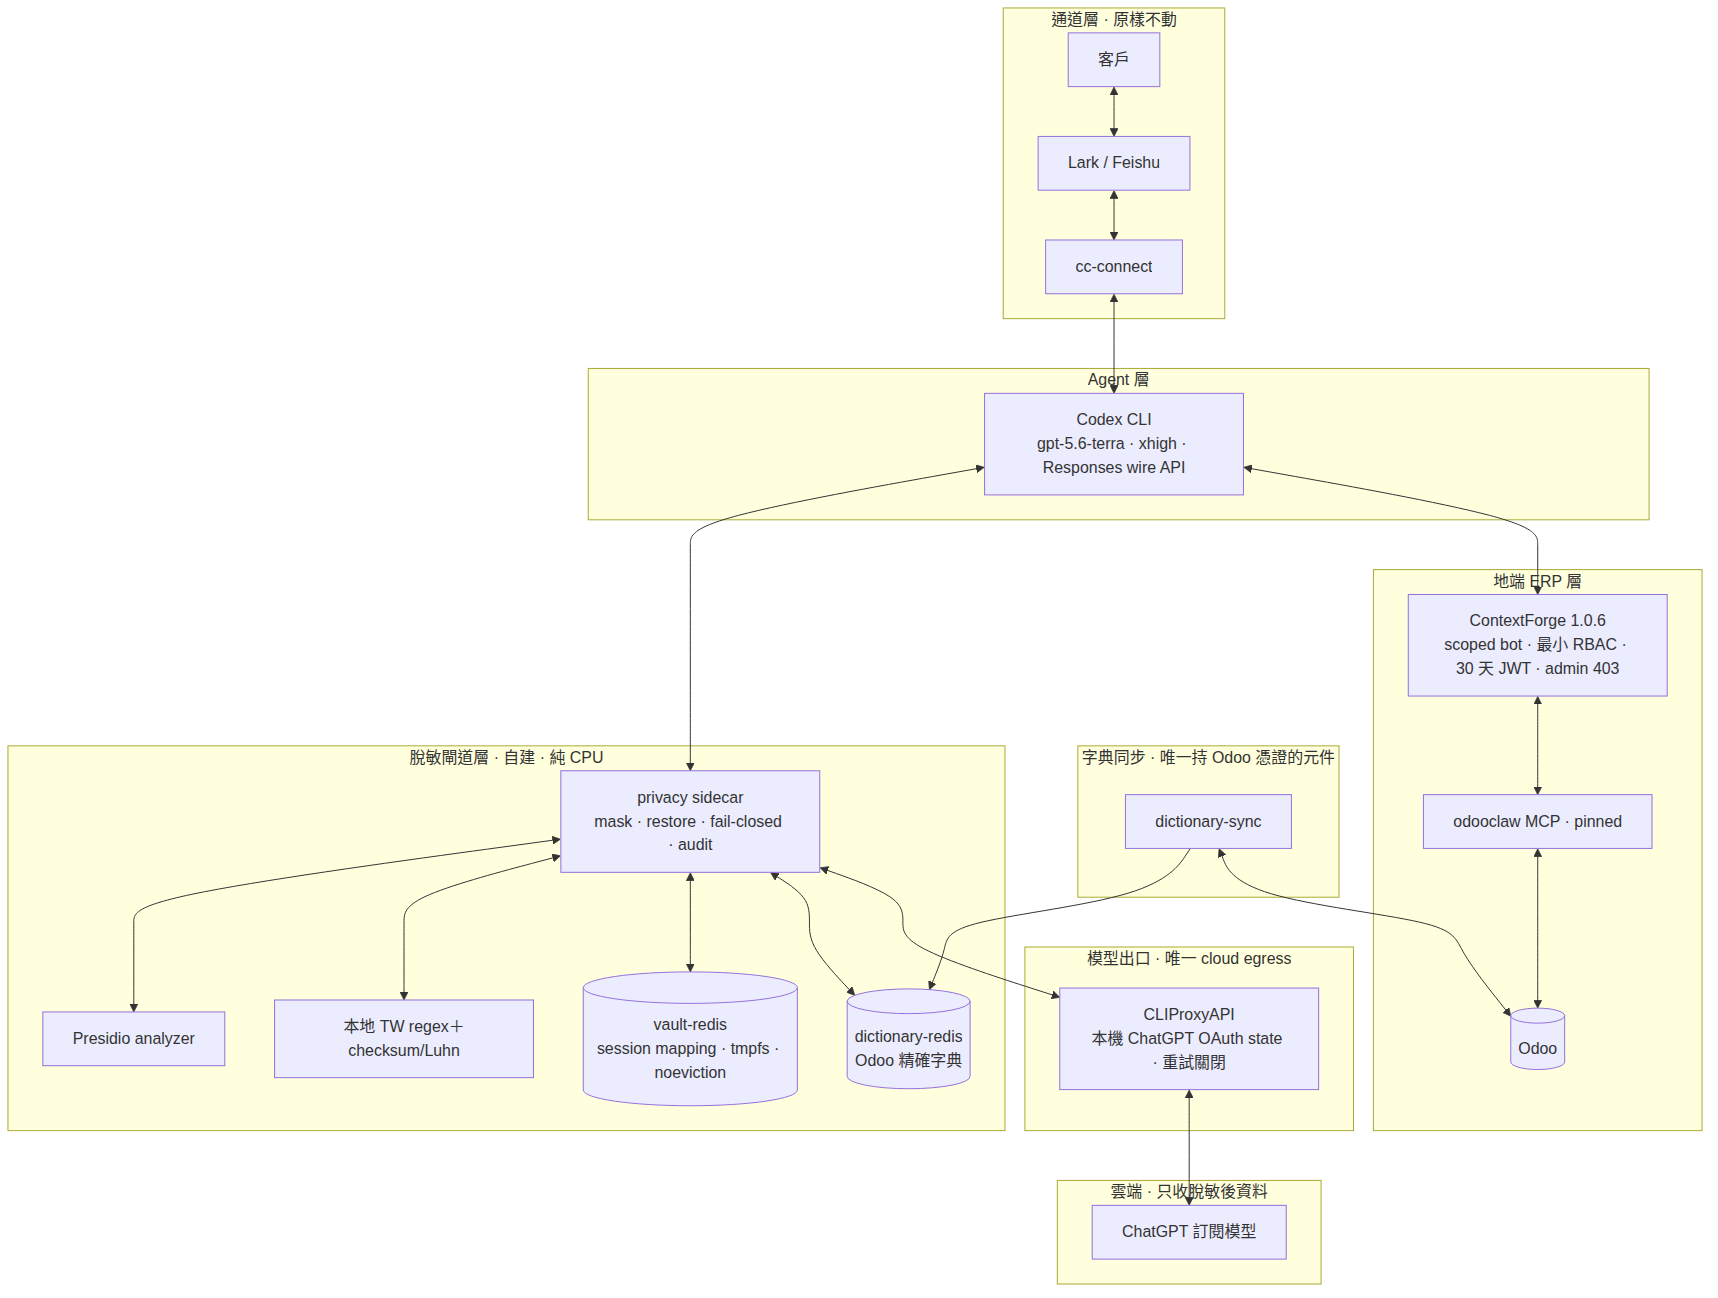
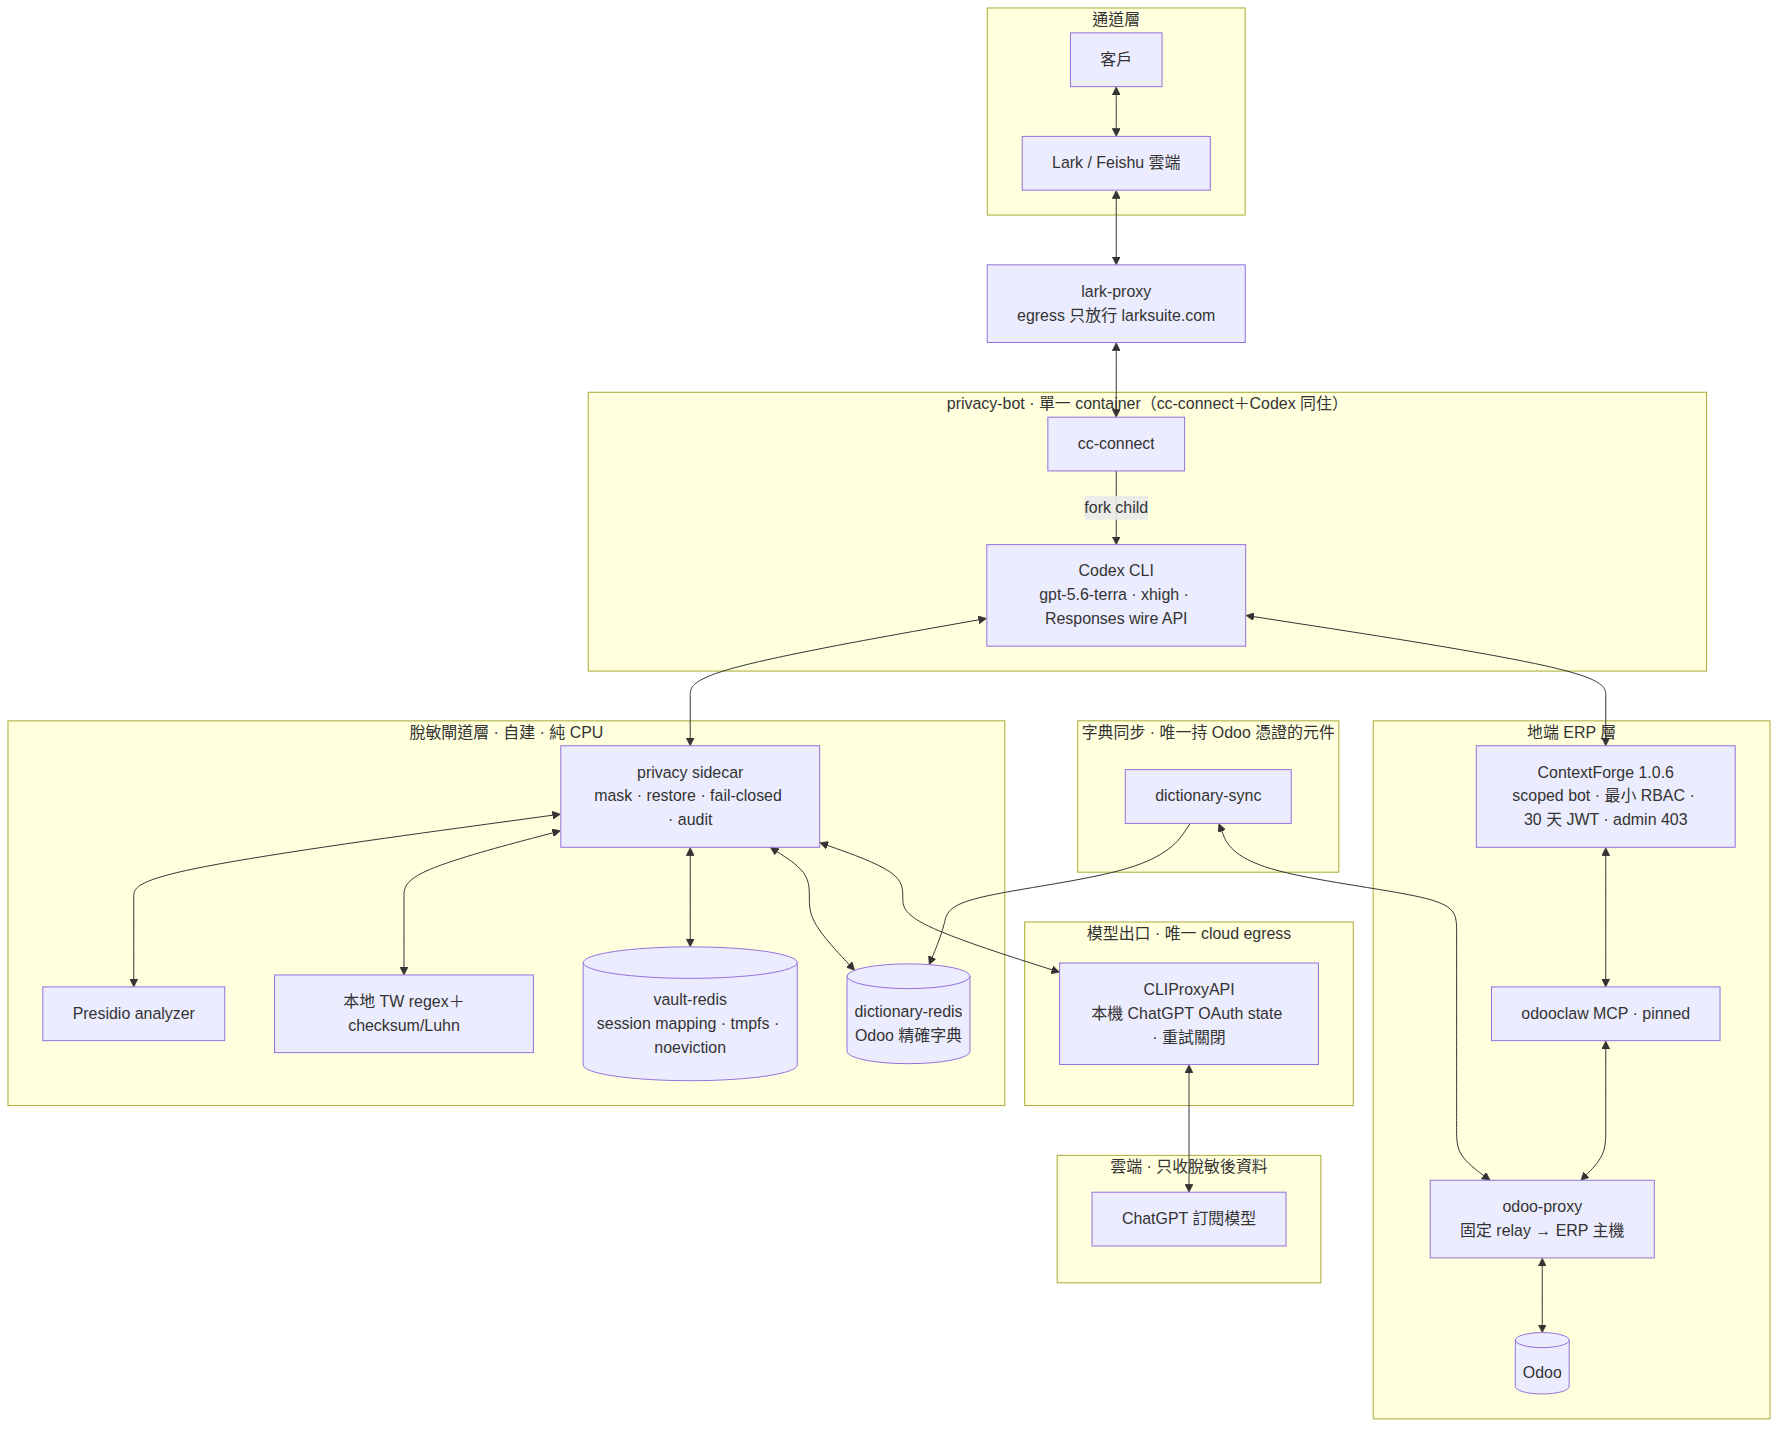
docs(field-notes): 06 修正 as-built component 圖——privacy-bot 單一 container（cc-connect＋Codex 同住），補 lark-proxy／odoo-proxy relay

diff --git a/docs/field-notes/06-privacy-masking-gateway.md b/docs/field-notes/06-privacy-masking-gateway.md
@@ -195,8 +195,8 @@ sequenceDiagram
     participant OC as odooclaw MCP
     participant O as Odoo
 
-    U->>CC: ① 原文訊息（含 PII）
-    CC->>CX: ② 轉發
+    U->>CC: ① 原文訊息（含 PII，經 lark-proxy egress）
+    CC->>CX: ② 轉發（同 container 內 fork）
     CX->>P: ③ Responses request（完整 payload）
     P->>P: ④ mask：Presidio＋TW regex/checksum＋Odoo 字典<br>mapping 寫 vault-redis
     P->>CP: ⑤ 脫敏後 payload（model network 內）
@@ -206,7 +206,7 @@ sequenceDiagram
     P-->>CX: ⑨ restore（mapping 缺漏即 fail closed）
     CX->>CF: ⑩ MCP tool call（真值參數，免 resolve）
     CF->>OC: ⑪ scoped server · policy 分類
-    OC->>O: ⑫ XML-RPC（專用 API user 最小 ACL）
+    OC->>O: ⑫ XML-RPC（經 odoo-proxy 固定 relay · 專用 API user 最小 ACL）
     O-->>OC: ⑬ 原始資料
     OC-->>CF: ⑭ 回傳（audit 只記 metadata）
     CF-->>CX: ⑮ tool result
@@ -226,13 +226,16 @@ sequenceDiagram
 
 ```mermaid
 flowchart TB
-    subgraph CH["通道層 · 原樣不動"]
-        U[客戶] <--> LK[Lark / Feishu]
-        LK <--> CC[cc-connect]
+    subgraph CH["通道層"]
+        U[客戶] <--> LK["Lark / Feishu 雲端"]
     end
 
-    subgraph AG["Agent 層"]
+    LP["lark-proxy<br>egress 只放行 larksuite.com"]
+
+    subgraph BOT["privacy-bot · 單一 container（cc-connect＋Codex 同住）"]
+        CC["cc-connect"]
         CX["Codex CLI<br>gpt-5.6-terra · xhigh · Responses wire API"]
+        CC -->|fork child| CX
     end
 
     subgraph GW["脫敏閘道層 · 自建 · 純 CPU"]
@@ -262,18 +265,21 @@ flowchart TB
     subgraph ERP["地端 ERP 層"]
         CF["ContextForge 1.0.6<br>scoped bot · 最小 RBAC · 30 天 JWT · admin 403"]
         OC["odooclaw MCP · pinned"]
+        OP["odoo-proxy<br>固定 relay → ERP 主機"]
         O[("Odoo")]
         CF <--> OC
-        OC <--> O
+        OC <--> OP
+        OP <--> O
     end
 
-    CC <--> CX
+    LK <--> LP
+    LP <--> CC
     CX <--> P
     P <--> CP
     CP <--> AI
     CX <--> CF
     DS --> DR
-    DS <--> O
+    DS <--> OP
 ```
 
 與原 component view 的差異：LiteLLM proxy 換成自建 sidecar；還原狀態從 LiteLLM 內部移到獨立 **vault-redis**；新增 **dictionary-redis／dictionary-sync**（Odoo 精確字典，只有 sync 元件持 Odoo 憑證）；模型出口固定為 **CLIProxyAPI**（唯一有 Internet egress 的模型元件）；odoo-mcp 換成 pinned **odooclaw**；全部服務以 **Docker network segmentation** 隔離，host 只綁 `127.0.0.1:18400`／`:18444`。
